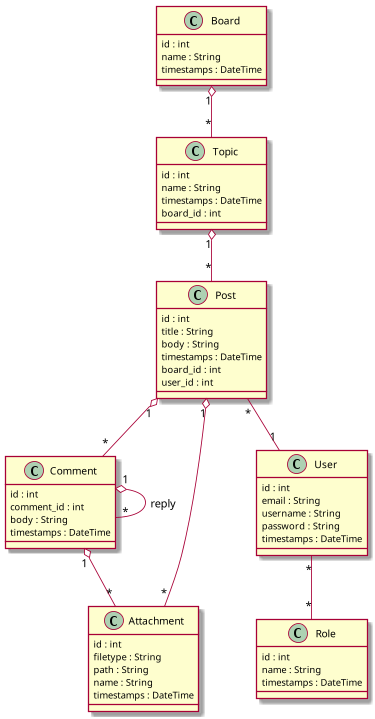
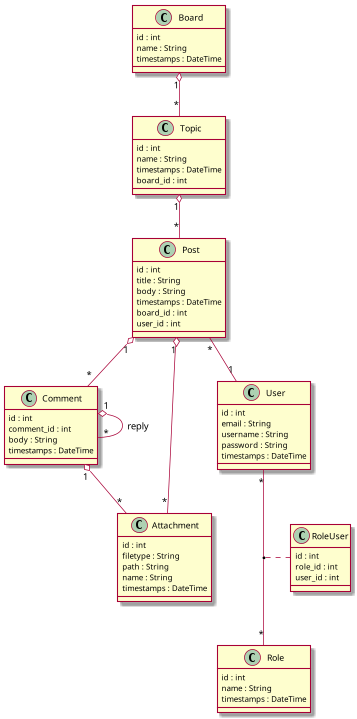
ROLEUSER UPDATE
-korigovane eloquent veze izmedju korisnika i uloge
-kreirana asocijativna klasa RoleUser sa odgovarajucim migracijama
-dijagram klasa korigovan datim promenama modela

diff --git a/veb_forum/app/Models/User.php b/veb_forum/app/Models/User.php
@@ -7,11 +7,18 @@ use Illuminate\Database\Eloquent\Factories\HasFactory;
 use Illuminate\Foundation\Auth\User as Authenticatable;
 use Illuminate\Notifications\Notifiable;
 use Illuminate\Database\Eloquent\Relations\HasMany;
+use Illuminate\Database\Eloquent\Relations\BelongsToMany;
 
 class User extends Authenticatable
 {
     /** @use HasFactory<\Database\Factories\UserFactory> */
     use HasFactory, Notifiable;
+
+
+    public function roles(): BelongsToMany
+    {
+        return $this->belongsToMany(Role::class, 'role_users', 'user_id', 'role_id');
+    }
 
     public function posts(): HasMany {
         return $this->hasMany(Post::class);
@@ -19,10 +26,6 @@ class User extends Authenticatable
 
     public function comments(): HasMany {
         return $this->hasMany(Comment::class);
-    }
-
-    public function roles(): HasMany {
-        return $this->hasMany(Role::class);
     }
 
     /**

diff --git a/veb_forum/database/migrations/2025_09_10_131855_create_role_users_table.php b/veb_forum/database/migrations/2025_09_10_131855_create_role_users_table.php
@@ -1,0 +1,29 @@
+<?php
+
+use Illuminate\Database\Migrations\Migration;
+use Illuminate\Database\Schema\Blueprint;
+use Illuminate\Support\Facades\Schema;
+
+return new class extends Migration
+{
+    /**
+     * Run the migrations.
+     */
+    public function up(): void
+    {
+        Schema::create('role_users', function (Blueprint $table) {
+            $table->id();
+            $table->foreignId('role_id');
+            $table->foreignId('user_id');
+            $table->timestamps();
+        });
+    }
+
+    /**
+     * Reverse the migrations.
+     */
+    public function down(): void
+    {
+        Schema::dropIfExists('role_users');
+    }
+};

diff --git a/veb_forum/database/migrations/2025_09_10_134628_add_unique_to_role_users.php b/veb_forum/database/migrations/2025_09_10_134628_add_unique_to_role_users.php
@@ -1,0 +1,28 @@
+<?php
+
+use Illuminate\Database\Migrations\Migration;
+use Illuminate\Database\Schema\Blueprint;
+use Illuminate\Support\Facades\Schema;
+
+return new class extends Migration
+{
+    /**
+     * Run the migrations.
+     */
+    public function up(): void
+    {
+        Schema::table('role_users', function (Blueprint $table) {
+            $table->unique(['role_id', 'user_id']);
+        });
+    }
+
+    /**
+     * Reverse the migrations.
+     */
+    public function down(): void
+    {
+        Schema::table('role_users', function (Blueprint $table) {
+            $table->dropUnique(['role_id', 'user_id']);
+        });
+    }
+};

diff --git a/veb_forum/app/Models/Role.php b/veb_forum/app/Models/Role.php
@@ -3,11 +3,11 @@
 namespace App\Models;
 
 use Illuminate\Database\Eloquent\Model;
-use Illuminate\Database\Eloquent\Relations\HasMany;
+use Illuminate\Database\Eloquent\Relations\BelongsToMany;
 
 class Role extends Model
 {
-    public function users(): HasMany {
-        return $this->hasMany(User::class);
+    public function users(): BelongsToMany {
+        return $this->belongsToMany(User::class, 'role_users', 'user_id', 'role_id');
     }
 }

diff --git a/veb_forum/app/Models/RoleUser.php b/veb_forum/app/Models/RoleUser.php
@@ -1,0 +1,10 @@
+<?php
+
+namespace App\Models;
+
+use Illuminate\Database\Eloquent\Relations\Pivot;
+
+class RoleUser extends Pivot
+{
+    //
+}
